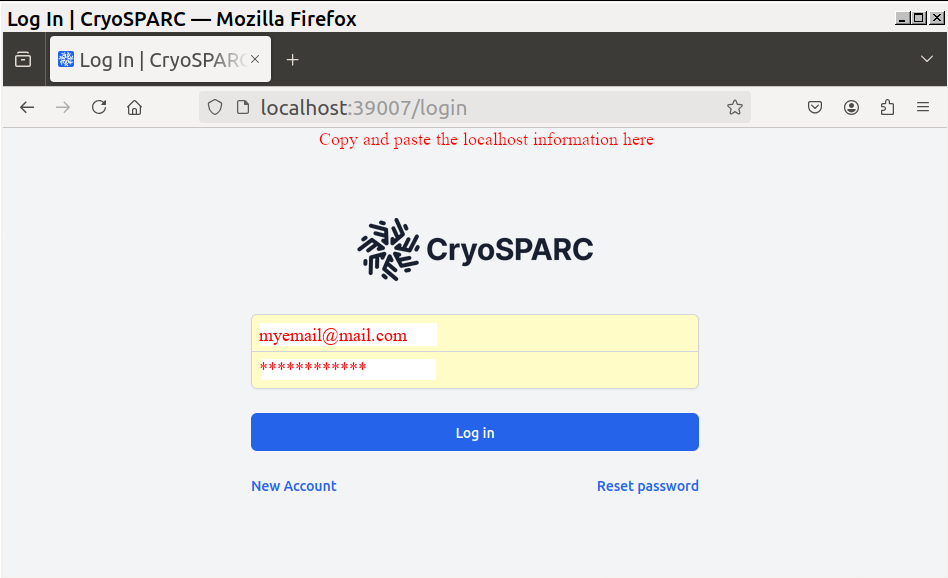
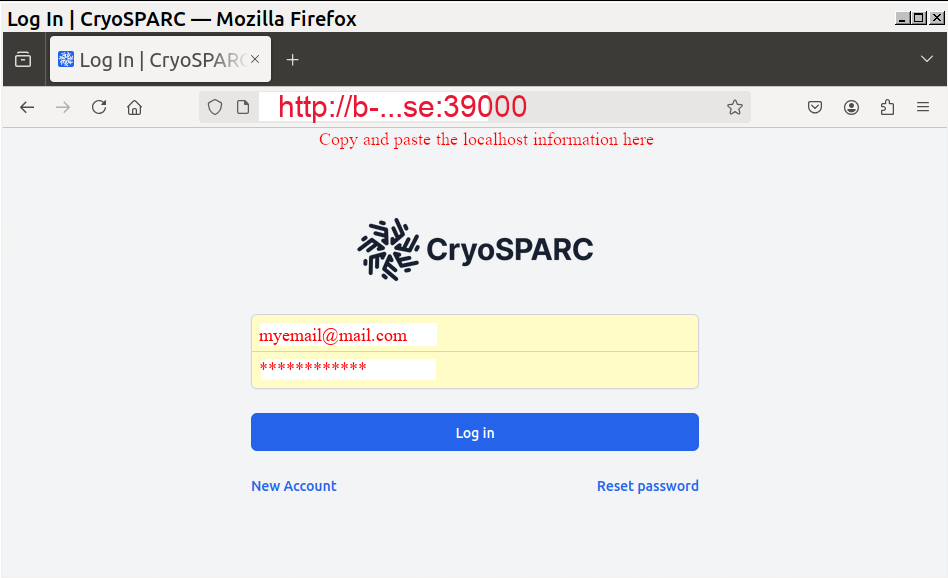
Cryosparc new lanes

Changed region(s): [[0.2753, 0.1557, 0.5506, 0.218]]

diff --git a/docs/software.md b/docs/software.md
@@ -408,26 +408,31 @@ for this type of license), check the email address that is displayed for this us
 added in the license file) and reset the password to. These steps are summarized here:
 
 ```bash
-$cryosparc start 
+$cryosparc start
 ...
 Do you wish to continue starting cryosparc? [yN]: y
 ...
-CryoSPARC master started. 
+CryoSPARC master started.
  From this machine, access CryoSPARC and CryoSPARC Live at
-    http://localhost:39007
+    http://b-an04.hpc2n.umu.se:39000
 ...
 
 $cryosparc listusers
 cryosparc resetpassword --email "myemail@mail.com" --password "choose-a-password"
 ```
+Copy and paste the line which has the url ``http://b-...:3900`` port (notice that port number can change) to a browser on Kebnekaise:
+![cryosparc-ini](./cryosparc-files/cryosparc-ini.png)
 
-Copy and paste the line which has the localhost port (notice that port number can change) to a browser on Kebnekaise:
-
-![cryosparc-ini](images/cryosparc-ini.png)
-
+Accept the CroSPARC Non-commercial software license agreement.
 After loging in, you will be able to see the CryoSPARC's dashboard:
 
 ![cryosparc-dash](images/cryosparc-snapshot.png)
+
+Upon queueing a job, you can set the account (SUPR Project on Kebnekaise) and the time limit in hours:
+
+![slurm](./cryosparc-files/slurm-parameters.png)
+
+Once you are done with the cryoSPARC session you can stop it with ``cryosparc stop``
 
 There are several tutorials at the CryoSPARC website, in the previous picture I followed the
 [Introductory Tutorial (v4.0+)](https://guide.cryosparc.com/processing-data/get-started-with-cryosparc-introductory-tutorial#step-3-download-the-tutorial-dataset){:target="_blank"}. 
